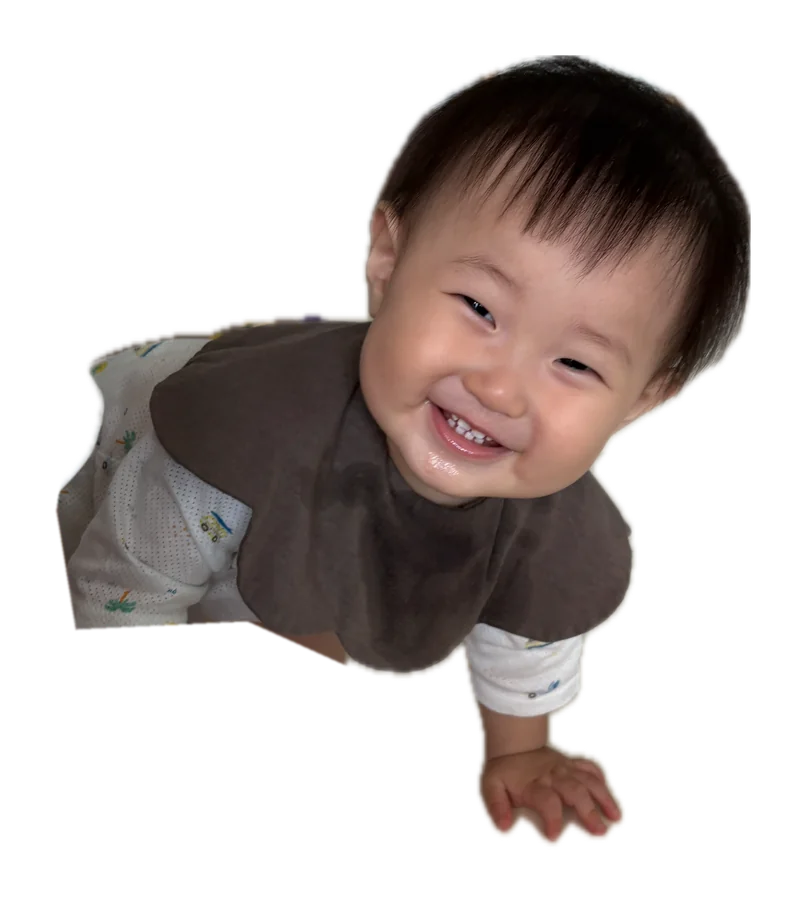
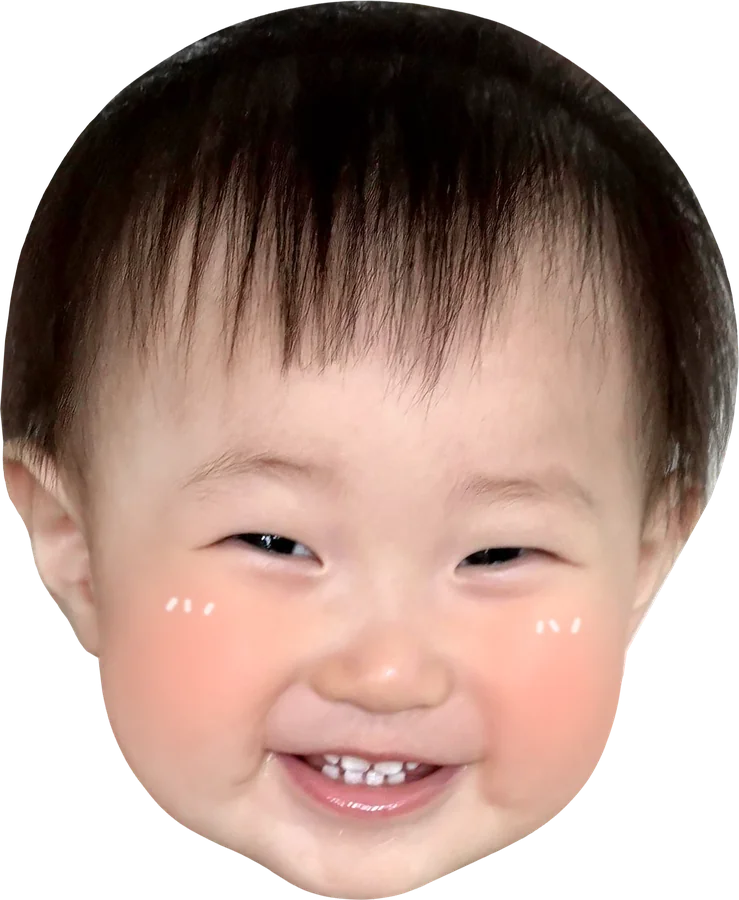
feat: 누끼콕 방침·약관에 카카오 로그인·문의 동영상·앱 내 계정 삭제 반영
- 개인정보처리방침: 카카오 위탁, 문의 첨부 동영상과 Discord 알림 항목, 탈퇴 후 회원·구매 기록 분리 보관
- 계정 삭제 페이지: 앱에서 바로 삭제를 기본으로, 이메일 요청은 대안
- 소개 페이지 스티커 이미지 교체, 이미지 원본과 생성 스크립트 추가

diff --git a/pages/nukkikok/privacy.vue b/pages/nukkikok/privacy.vue
@@ -3,7 +3,7 @@
     <div class="max-w-3xl mx-auto px-6 py-16">
       <nuxt-link to="/nukkikok" class="text-pink-700 dark:text-pink-300 text-sm hover:underline mb-8 block">← 누끼콕</nuxt-link>
       <h1 class="text-3xl font-bold text-gray-900 dark:text-white mb-2">개인정보처리방침</h1>
-      <p class="text-gray-500 dark:text-gray-400 text-sm mb-10">시행일: 2026년 10월 4일</p>
+      <p class="text-gray-500 dark:text-gray-400 text-sm mb-10">시행일: 2026년 10월 5일</p>
 
       <div class="prose dark:prose-invert max-w-none text-gray-700 dark:text-gray-300 leading-relaxed space-y-8">
 
@@ -13,6 +13,7 @@
           <h2 class="text-lg font-semibold text-gray-900 dark:text-white mb-2">사진은 기기 밖으로 나가지 않습니다</h2>
           <p>스티커를 만들기 위해 고른 사진과 그 결과물은 <strong>모두 이용자의 기기 안에서만 처리</strong>됩니다. 피사체 추출, 얼굴 인식(머리카락 다듬기), 영역 보정은 기기에 내장된 기능과 앱에 포함된 모델로 동작하며, 운영자는 이 사진을 서버로 전송하거나 수집하지 않습니다.</p>
           <p class="mt-2">'이전 작업 계속하기'를 위해 마지막으로 자른 사진이 앱 내부 저장공간에 보관되며, 앱을 삭제하면 함께 지워집니다.</p>
+          <p class="mt-2">단, 이용자가 문의하기에 직접 첨부한 사진·동영상은 문의 답변을 위해 서버에 저장됩니다(아래 1항 '문의' 참고).</p>
         </section>
 
         <section>
@@ -29,7 +30,7 @@
               <tbody class="align-top">
                 <tr class="border-b border-gray-100 dark:border-gray-800">
                   <td class="py-2 pr-4 whitespace-nowrap">로그인 (선택)</td>
-                  <td class="py-2 pr-4">이메일 주소, 이름(소셜 계정이 제공하는 경우), 계정 고유 식별자</td>
+                  <td class="py-2 pr-4">Google·Apple·카카오 계정의 이메일 주소와 이름(닉네임), 계정 고유 식별자, 로그인 방식, 기기 종류(Android/iOS), 가입·최근 로그인 시각</td>
                   <td class="py-2">구매 내역을 계정에 연결해 재설치·기기 변경 후에도 유지, 문의 응대</td>
                 </tr>
                 <tr class="border-b border-gray-100 dark:border-gray-800">
@@ -39,7 +40,7 @@
                 </tr>
                 <tr class="border-b border-gray-100 dark:border-gray-800">
                   <td class="py-2 pr-4 whitespace-nowrap">문의</td>
-                  <td class="py-2 pr-4">문의 내용, 이용자가 직접 첨부한 사진·파일, 계정 식별자, 앱 버전·기기 정보</td>
+                  <td class="py-2 pr-4">문의 유형·제목·내용, 이용자가 직접 첨부한 사진·동영상, 계정 식별자, 앱 버전·기기 정보</td>
                   <td class="py-2">문의 확인 및 답변</td>
                 </tr>
                 <tr class="border-b border-gray-100 dark:border-gray-800">
@@ -61,7 +62,8 @@
         <section>
           <h2 class="text-xl font-semibold text-gray-900 dark:text-white mb-3">2. 보유 및 이용 기간</h2>
           <ul class="list-disc pl-5 space-y-1">
-            <li>계정 정보: 계정 삭제 시까지. 삭제 요청을 받으면 지체 없이 파기합니다.</li>
+            <li>로그인 계정(이메일, 이름): 계정 삭제 시 즉시 삭제합니다.</li>
+            <li>회원 기록(계정 식별자, 로그인 방식, 가입·삭제 일시, 구매 상태): 계정 삭제 후 다른 정보와 분리해 5년간 보관한 뒤 파기합니다. 구매 기록 보관 의무를 지키고 구매 관련 문의에 답하기 위해서입니다.</li>
             <li>문의 내용과 첨부 파일: 문의 처리 후 3년 (「전자상거래 등에서의 소비자보호에 관한 법률」에 따른 소비자 불만·분쟁 처리 기록)</li>
             <li>구매 기록: 5년 (같은 법률에 따른 대금 결제 및 재화 공급 기록)</li>
             <li>이용 통계: 수집일로부터 최대 14개월</li>
@@ -75,7 +77,7 @@
 
         <section>
           <h2 class="text-xl font-semibold text-gray-900 dark:text-white mb-3">4. 처리 위탁 및 국외 이전</h2>
-          <p>서비스 운영을 위해 아래 업체에 개인정보 처리를 맡기고 있으며, 이 과정에서 정보가 국외에 저장될 수 있습니다. 정보는 서비스 이용 시 네트워크를 통해 전송되며, 위 2항의 기간 또는 위탁 계약 종료 시까지 보관됩니다.</p>
+          <p>서비스 운영을 위해 아래 업체에 개인정보 처리를 맡기고 있으며, 카카오를 제외한 업체는 정보를 국외에 저장할 수 있습니다. 정보는 서비스 이용 시 네트워크를 통해 전송되며, 위 2항의 기간 또는 위탁 계약 종료 시까지 보관됩니다.</p>
           <div class="overflow-x-auto mt-3">
             <table class="w-full text-sm border-collapse">
               <thead>
@@ -97,14 +99,19 @@
                   <td class="py-2">계정 정보, 구매 확인 정보</td>
                 </tr>
                 <tr class="border-b border-gray-100 dark:border-gray-800">
+                  <td class="py-2 pr-4">Kakao Corp. (대한민국)</td>
+                  <td class="py-2 pr-4">카카오 로그인</td>
+                  <td class="py-2">이용자가 동의한 카카오 계정 정보(이메일, 닉네임), 계정 식별자</td>
+                </tr>
+                <tr class="border-b border-gray-100 dark:border-gray-800">
                   <td class="py-2 pr-4">Cloudflare, Inc. (미국)</td>
                   <td class="py-2 pr-4">문의 첨부 파일 저장 및 전송</td>
-                  <td class="py-2">문의 첨부 사진·파일</td>
+                  <td class="py-2">문의 첨부 사진·동영상</td>
                 </tr>
                 <tr>
                   <td class="py-2 pr-4">Discord Inc. (미국)</td>
                   <td class="py-2 pr-4">새 문의 접수 알림 (운영자 확인용)</td>
-                  <td class="py-2">문의 번호, 문의 내용</td>
+                  <td class="py-2">문의 유형·제목·내용, 기기 정보, 첨부 링크와 첫 번째 사진 미리보기</td>
                 </tr>
               </tbody>
             </table>
@@ -122,7 +129,7 @@
 
         <section>
           <h2 class="text-xl font-semibold text-gray-900 dark:text-white mb-3">6. 이용자의 권리와 행사 방법</h2>
-          <p>이용자는 언제든지 자신의 개인정보 열람, 정정, 삭제, 처리 정지를 요청할 수 있습니다. 계정과 관련 데이터의 삭제는 <nuxt-link to="/nukkikok/delete-account" class="text-pink-700 dark:text-pink-300 hover:underline">계정 삭제 요청 페이지</nuxt-link>의 안내에 따라 신청해 주시면 확인 후 지체 없이 처리합니다. 법령에 따라 보관해야 하는 정보는 해당 기간이 지난 뒤 파기합니다.</p>
+          <p>이용자는 언제든지 자신의 개인정보 열람, 정정, 삭제, 처리 정지를 요청할 수 있습니다. 계정은 앱의 <strong>내 정보 → 계정 삭제</strong>에서 바로 삭제할 수 있으며, 앱을 쓸 수 없다면 <nuxt-link to="/nukkikok/delete-account" class="text-pink-700 dark:text-pink-300 hover:underline">계정 삭제 요청 페이지</nuxt-link>의 안내에 따라 이메일로 신청할 수 있습니다. 법령에 따라 보관해야 하는 정보는 해당 기간이 지난 뒤 파기합니다.</p>
         </section>
 
         <section>

diff --git a/pages/nukkikok/delete-account.vue b/pages/nukkikok/delete-account.vue
@@ -3,42 +3,47 @@
     <div class="max-w-3xl mx-auto px-6 py-16">
       <nuxt-link to="/nukkikok" class="text-pink-700 dark:text-pink-300 text-sm hover:underline mb-8 block">← 누끼콕</nuxt-link>
       <h1 class="text-3xl font-bold text-gray-900 dark:text-white mb-2">계정 및 데이터 삭제 요청</h1>
-      <p class="text-gray-500 dark:text-gray-400 text-sm mb-10">시행일: 2026년 10월 4일</p>
+      <p class="text-gray-500 dark:text-gray-400 text-sm mb-10">시행일: 2026년 10월 5일</p>
 
       <div class="text-gray-700 dark:text-gray-300 leading-relaxed space-y-6">
-        <p>누끼콕 계정과 개인 데이터 삭제를 원하시면, 로그인에 사용한 이메일로 아래 주소에 요청해 주세요.</p>
+        <p>누끼콕 계정은 앱에서 바로 삭제할 수 있어요. 앱을 쓸 수 없다면 이메일로 요청해 주세요.</p>
 
         <div class="bg-pink-50 dark:bg-gray-800 rounded-2xl p-6 border border-pink-200 dark:border-gray-700">
-          <p class="font-semibold text-gray-900 dark:text-white mb-1">삭제 요청 이메일</p>
+          <p class="font-semibold text-gray-900 dark:text-white mb-1">앱에서 삭제하기</p>
+          <p class="text-sm">누끼콕 앱 → <strong>내 정보</strong> → <strong>계정 삭제</strong></p>
+          <p class="text-sm text-gray-500 dark:text-gray-400 mt-2">로그인한 지 오래됐다면 본인 확인을 위해 한 번 더 로그인해야 할 수 있어요.</p>
+        </div>
+
+        <div class="rounded-2xl p-6 border border-gray-200 dark:border-gray-700">
+          <p class="font-semibold text-gray-900 dark:text-white mb-1">이메일로 요청하기</p>
           <a href="mailto:justinit.service@gmail.com?subject=[누끼콕] 계정 삭제 요청"
              class="text-pink-700 dark:text-pink-300 hover:underline">
             justinit.service@gmail.com
           </a>
           <p class="text-sm text-gray-500 dark:text-gray-400 mt-2">제목: [누끼콕] 계정 삭제 요청</p>
-          <p class="text-sm text-gray-500 dark:text-gray-400">본문: 로그인 방식(Google 또는 Apple)과 계정 이메일</p>
+          <p class="text-sm text-gray-500 dark:text-gray-400">본문: 로그인 방식(Google, Apple 또는 카카오)과 계정 이메일</p>
         </div>
 
         <div>
-          <p class="font-semibold text-gray-900 dark:text-white mb-2">삭제되는 데이터</p>
+          <p class="font-semibold text-gray-900 dark:text-white mb-2">바로 삭제되는 데이터</p>
           <ul class="list-disc pl-5 space-y-1 text-sm">
-            <li>계정 정보 (이메일, 이름, 계정 식별자)</li>
-            <li>계정에 연결된 구매 내역 정보</li>
-            <li>문의 내용과 첨부 사진·파일 (아래 '법령에 따라 보관하는 데이터' 제외)</li>
+            <li>로그인 계정 (이메일, 이름·닉네임)</li>
+            <li>카카오로 로그인했다면 카카오 계정과 누끼콕의 연결도 끊어요.</li>
           </ul>
         </div>
 
         <div>
           <p class="font-semibold text-gray-900 dark:text-white mb-2">법령에 따라 보관하는 데이터</p>
-          <p class="text-sm mb-2">「전자상거래 등에서의 소비자보호에 관한 법률」에 따라 아래 정보는 정해진 기간 동안 따로 보관한 뒤 파기합니다. 이 기간에는 법령에서 정한 목적 외에는 쓰지 않습니다.</p>
+          <p class="text-sm mb-2">「전자상거래 등에서의 소비자보호에 관한 법률」에 따라 아래 정보는 다른 정보와 분리해 정해진 기간 동안 보관한 뒤 파기합니다. 이 기간에는 법령에서 정한 목적과 구매 관련 문의 응대 외에는 쓰지 않습니다.</p>
           <ul class="list-disc pl-5 space-y-1 text-sm">
-            <li>구매 기록: 5년</li>
-            <li>소비자 불만·분쟁 처리 기록(문의): 3년</li>
+            <li>회원·구매 기록 (계정 식별자, 로그인 방식, 가입·삭제 일시, 구매 상태): 5년</li>
+            <li>문의 내용과 첨부 사진·동영상 (소비자 불만·분쟁 처리 기록): 3년</li>
           </ul>
         </div>
 
         <div>
           <p class="font-semibold text-gray-900 dark:text-white mb-2">처리 기간</p>
-          <p class="text-sm">요청 접수 후 영업일 기준 7일 이내에 처리하고, 처리 결과를 이메일로 알려드립니다.</p>
+          <p class="text-sm">앱에서 삭제하면 바로 처리돼요. 이메일 요청은 접수 후 영업일 기준 7일 이내에 처리하고, 결과를 이메일로 알려드립니다.</p>
         </div>
 
         <div>

diff --git a/pages/nukkikok/terms.vue b/pages/nukkikok/terms.vue
@@ -3,7 +3,7 @@
     <div class="max-w-3xl mx-auto px-6 py-16">
       <nuxt-link to="/nukkikok" class="text-pink-700 dark:text-pink-300 text-sm hover:underline mb-8 block">← 누끼콕</nuxt-link>
       <h1 class="text-3xl font-bold text-gray-900 dark:text-white mb-2">이용약관</h1>
-      <p class="text-gray-500 dark:text-gray-400 text-sm mb-10">시행일: 2026년 10월 4일</p>
+      <p class="text-gray-500 dark:text-gray-400 text-sm mb-10">시행일: 2026년 10월 5일</p>
 
       <div class="prose dark:prose-invert max-w-none text-gray-700 dark:text-gray-300 leading-relaxed space-y-8">
 
@@ -24,8 +24,9 @@
         <section>
           <h2 class="text-xl font-semibold text-gray-900 dark:text-white mb-3">3. 계정</h2>
           <ul class="list-disc pl-5 space-y-1">
-            <li>서비스는 로그인 없이도 쓸 수 있습니다. 유료 상품 구매와 문의에는 Google 또는 Apple 계정으로 로그인해야 할 수 있습니다.</li>
+            <li>서비스는 로그인 없이도 쓸 수 있습니다. 유료 상품 구매와 문의에는 Google, Apple 또는 카카오 계정으로 로그인해야 할 수 있습니다.</li>
             <li>이용자는 자신의 계정을 직접 관리해야 하며, 타인의 계정을 쓰면 안 됩니다.</li>
+            <li>이용자는 언제든지 앱의 내 정보 → 계정 삭제에서 계정을 삭제할 수 있습니다.</li>
           </ul>
         </section>
 

diff --git a/scripts/nukkikok/cut.swift b/scripts/nukkikok/cut.swift
@@ -1,0 +1,15 @@
+import Vision
+import CoreImage
+import AppKit
+let src = URL(fileURLWithPath: CommandLine.arguments[1])
+let out = URL(fileURLWithPath: CommandLine.arguments[2])
+let ci = CIImage(contentsOf: src)!
+let req = VNGenerateForegroundInstanceMaskRequest()
+let h = VNImageRequestHandler(ciImage: ci)
+try h.perform([req])
+let r = req.results!.first!
+print("instances", r.allInstances.count)
+let buf = try r.generateMaskedImage(ofInstances: r.allInstances, from: h, croppedToInstancesExtent: true)
+let img = CIImage(cvPixelBuffer: buf)
+let ctx = CIContext()
+try ctx.writePNGRepresentation(of: img, to: out, format: .RGBA8, colorSpace: CGColorSpace(name: CGColorSpace.sRGB)!)

diff --git a/scripts/nukkikok/make_images.py b/scripts/nukkikok/make_images.py
@@ -1,0 +1,79 @@
+#!/usr/bin/env python3
+"""누끼콕 소개 페이지 이미지(static/nukkikok/*.webp)를 원본에서 다시 만든다.
+
+쓰는 법: python3 scripts/nukkikok/make_images.py [--recut] [--body-sticker]
+  --recut         Apple Vision으로 원본 사진의 누끼를 다시 딴다 (macOS 14+, swiftc 필요).
+                  없으면 source/auto_full.png를 그대로 쓴다.
+  --body-sticker  sticker.webp를 얼굴 스티커(source/sticker_face.webp) 대신
+                  몸 전체 스티커(auto_full에서 다리를 뺀 것)로 만든다.
+필요: Pillow (pip install pillow)
+"""
+import subprocess
+import sys
+import tempfile
+from pathlib import Path
+
+from PIL import Image, ImageChops, ImageDraw, ImageFilter
+
+HERE = Path(__file__).resolve().parent
+ROOT = HERE.parent.parent
+SRC = HERE / 'source'
+OUT = ROOT / 'static' / 'nukkikok'
+PHOTO = OUT / 'sample' / 'baby1.png'
+
+WEB_MAX = 900
+
+# auto_full.png를 665x900으로 줄였을 때 기준, 아기만 남기는 영역 (부모님 다리 제외)
+BODY_POLY = [(150, 0), (665, 0), (665, 600), (470, 600), (455, 470), (380, 446),
+             (300, 410), (240, 413), (176, 416), (162, 330), (180, 205), (150, 0)]
+
+
+def recut():
+    with tempfile.TemporaryDirectory() as tmp:
+        exe = Path(tmp) / 'cut'
+        subprocess.run(['swiftc', '-O', str(HERE / 'cut.swift'), '-o', str(exe)], check=True)
+        subprocess.run([str(exe), str(PHOTO), str(SRC / 'auto_full.png')], check=True)
+
+
+def body_sticker(auto):
+    """자동 추출 결과에서 BODY_POLY 밖(다리)을 지운다. 2배 해상도로 작업."""
+    s = 2
+    cut = auto.resize((665 * s, 900 * s), Image.LANCZOS)
+    mask = Image.new('L', cut.size, 0)
+    ImageDraw.Draw(mask).polygon([(x * s, y * s) for x, y in BODY_POLY], fill=255)
+    mask = mask.filter(ImageFilter.GaussianBlur(1.5))
+    cut.putalpha(ImageChops.multiply(cut.getchannel('A'), mask))
+    return trim(cut, pad=40 * s)
+
+
+def trim(im, pad=0):
+    box = im.getchannel('A').point(lambda v: 255 if v > 8 else 0).getbbox()
+    return im.crop((box[0] - pad, box[1] - pad, box[2] + pad, box[3] + pad))
+
+
+def save_webp(im, name, quality=85):
+    im = im.copy()
+    im.thumbnail((WEB_MAX, WEB_MAX if im.mode == 'RGBA' else 1200), Image.LANCZOS)
+    im.save(OUT / name, quality=quality, method=6)
+    print(f'{name}: {im.size[0]}x{im.size[1]}, {(OUT / name).stat().st_size // 1024}KB')
+
+
+def main():
+    if '--recut' in sys.argv:
+        recut()
+
+    save_webp(Image.open(PHOTO).convert('RGB'), 'original.webp', quality=80)
+
+    auto = Image.open(SRC / 'auto_full.png').convert('RGBA')
+    save_webp(auto, 'auto.webp')
+
+    if '--body-sticker' in sys.argv:
+        sticker = body_sticker(auto)
+        sticker.save(SRC / 'sticker_body.png', optimize=True)
+    else:
+        sticker = trim(Image.open(SRC / 'sticker_face.webp').convert('RGBA'))
+    save_webp(sticker, 'sticker.webp')
+
+
+if __name__ == '__main__':
+    main()

diff --git a/scripts/nukkikok/README.md b/scripts/nukkikok/README.md
@@ -1,0 +1,17 @@
+# 누끼콕 소개 페이지 이미지
+
+`static/nukkikok/`의 `original.webp`, `auto.webp`, `sticker.webp`를 만드는 원본과 스크립트.
+
+```bash
+python3 scripts/nukkikok/make_images.py
+```
+
+| 결과 | 만드는 법 |
+|---|---|
+| `original.webp` | `static/nukkikok/sample/baby1.png`을 줄인 것 |
+| `auto.webp` | `source/auto_full.png` (Apple Vision 피사체 추출 결과, 부모님 다리 포함)을 줄인 것 |
+| `sticker.webp` | `source/sticker_face.webp` (직접 만든 얼굴 스티커)를 줄인 것 |
+
+- `--recut`: `cut.swift`로 원본 사진의 누끼를 다시 따서 `source/auto_full.png`를 새로 만든다. macOS 14 이상.
+- `--body-sticker`: 얼굴 스티커 대신 `auto_full.png`에서 다리를 뺀 몸 전체 스티커를 쓴다 (`source/sticker_body.png`도 갱신).
+- 이 폴더는 배포되지 않는다 (`static/`만 배포).
